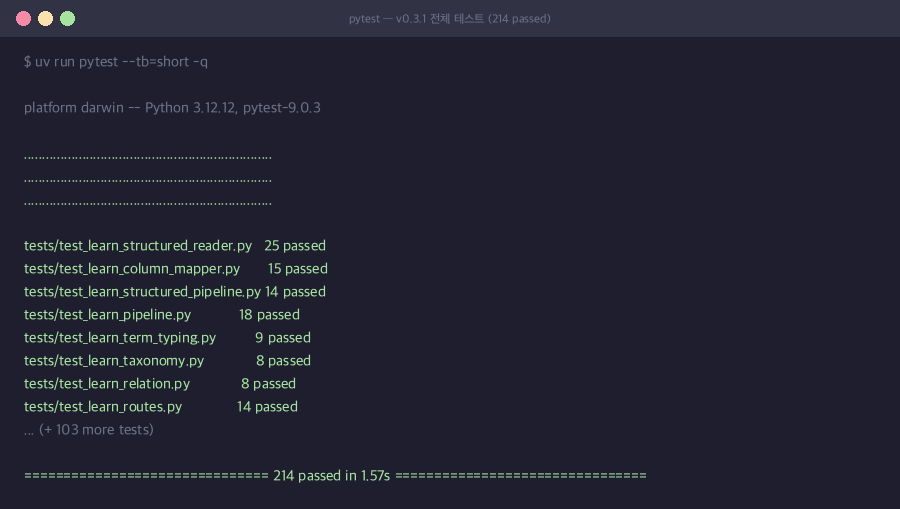
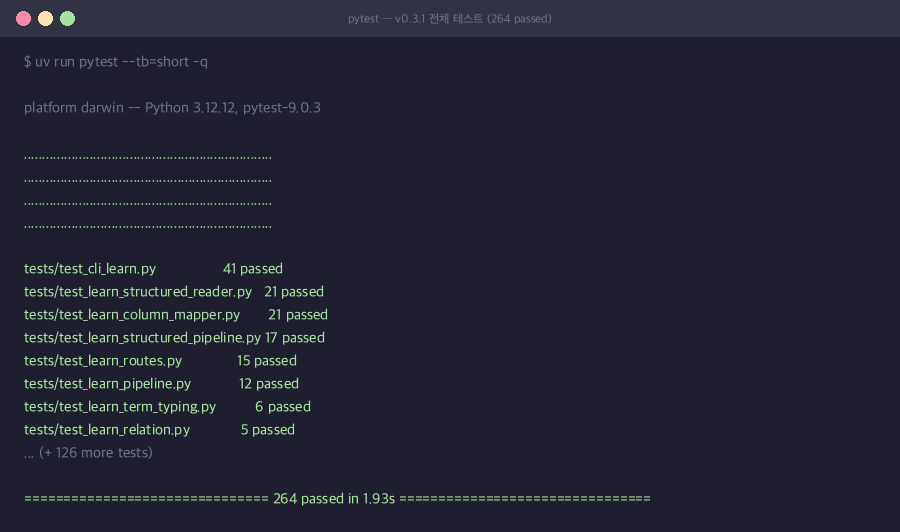
docs: update test count 214 → 264 in README (ko/en) and screenshot
Reflects the 49 new tests added during v0.3.1 comprehensive improvement:
CLI learn tests (41), null-value guard, empty-cache guard, forward-compat
load_mapping, JSON array handling, and empty slug fallback tests.

diff --git a/scripts/gen_screenshots.py b/scripts/gen_screenshots.py
@@ -69,22 +69,23 @@ def make_test_results() -> None:
         ("....................................................................", GREEN),
         ("....................................................................", GREEN),
         ("....................................................................", GREEN),
+        ("....................................................................", GREEN),
         ("", FG),
-        ("tests/test_learn_structured_reader.py   25 passed", GREEN),
-        ("tests/test_learn_column_mapper.py       15 passed", GREEN),
-        ("tests/test_learn_structured_pipeline.py 14 passed", GREEN),
-        ("tests/test_learn_pipeline.py            18 passed", GREEN),
-        ("tests/test_learn_term_typing.py          9 passed", GREEN),
-        ("tests/test_learn_taxonomy.py             8 passed", GREEN),
-        ("tests/test_learn_relation.py             8 passed", GREEN),
-        ("tests/test_learn_routes.py              14 passed", GREEN),
-        ("... (+ 103 more tests)", DIM),
+        ("tests/test_cli_learn.py                 41 passed", GREEN),
+        ("tests/test_learn_structured_reader.py   21 passed", GREEN),
+        ("tests/test_learn_column_mapper.py       21 passed", GREEN),
+        ("tests/test_learn_structured_pipeline.py 17 passed", GREEN),
+        ("tests/test_learn_routes.py              15 passed", GREEN),
+        ("tests/test_learn_pipeline.py            12 passed", GREEN),
+        ("tests/test_learn_term_typing.py          6 passed", GREEN),
+        ("tests/test_learn_relation.py             5 passed", GREEN),
+        ("... (+ 126 more tests)", DIM),
         ("", FG),
-        ("=============================== 214 passed in 1.57s ================================", GREEN),
+        ("=============================== 264 passed in 1.93s ================================", GREEN),
     ]
     render_terminal(
         lines, "assets/learn_tests.png",
-        title="pytest — v0.3.1 전체 테스트 (214 passed)",
+        title="pytest — v0.3.1 전체 테스트 (264 passed)",
         width=900,
     )
 

diff --git a/README.ko.md b/README.ko.md
@@ -315,7 +315,7 @@ ontorag learn populate-structured pokedex.jsonl --batch-size 100 --yes
 | `--min-confidence` | 0.7 | 컬럼 매핑 최소 신뢰도 임계값 |
 | `--yes` | false | Fuseki 로드 확인 프롬프트 생략 |
 
-### 테스트 스위트 — v0.3.1 (214개 테스트)
+### 테스트 스위트 — v0.3.1 (264개 테스트)
 
 ![v0.3.1 테스트 결과](assets/learn_tests.png)
 

diff --git a/README.md b/README.md
@@ -315,7 +315,7 @@ ontorag learn populate-structured pokedex.jsonl --batch-size 100 --yes
 | `--min-confidence` | 0.7 | Minimum column-mapping confidence threshold |
 | `--yes` | false | Skip Fuseki load confirmation prompt |
 
-### Test suite — v0.3.1 (214 tests)
+### Test suite — v0.3.1 (264 tests)
 
 ![v0.3.1 test results](assets/learn_tests.png)
 